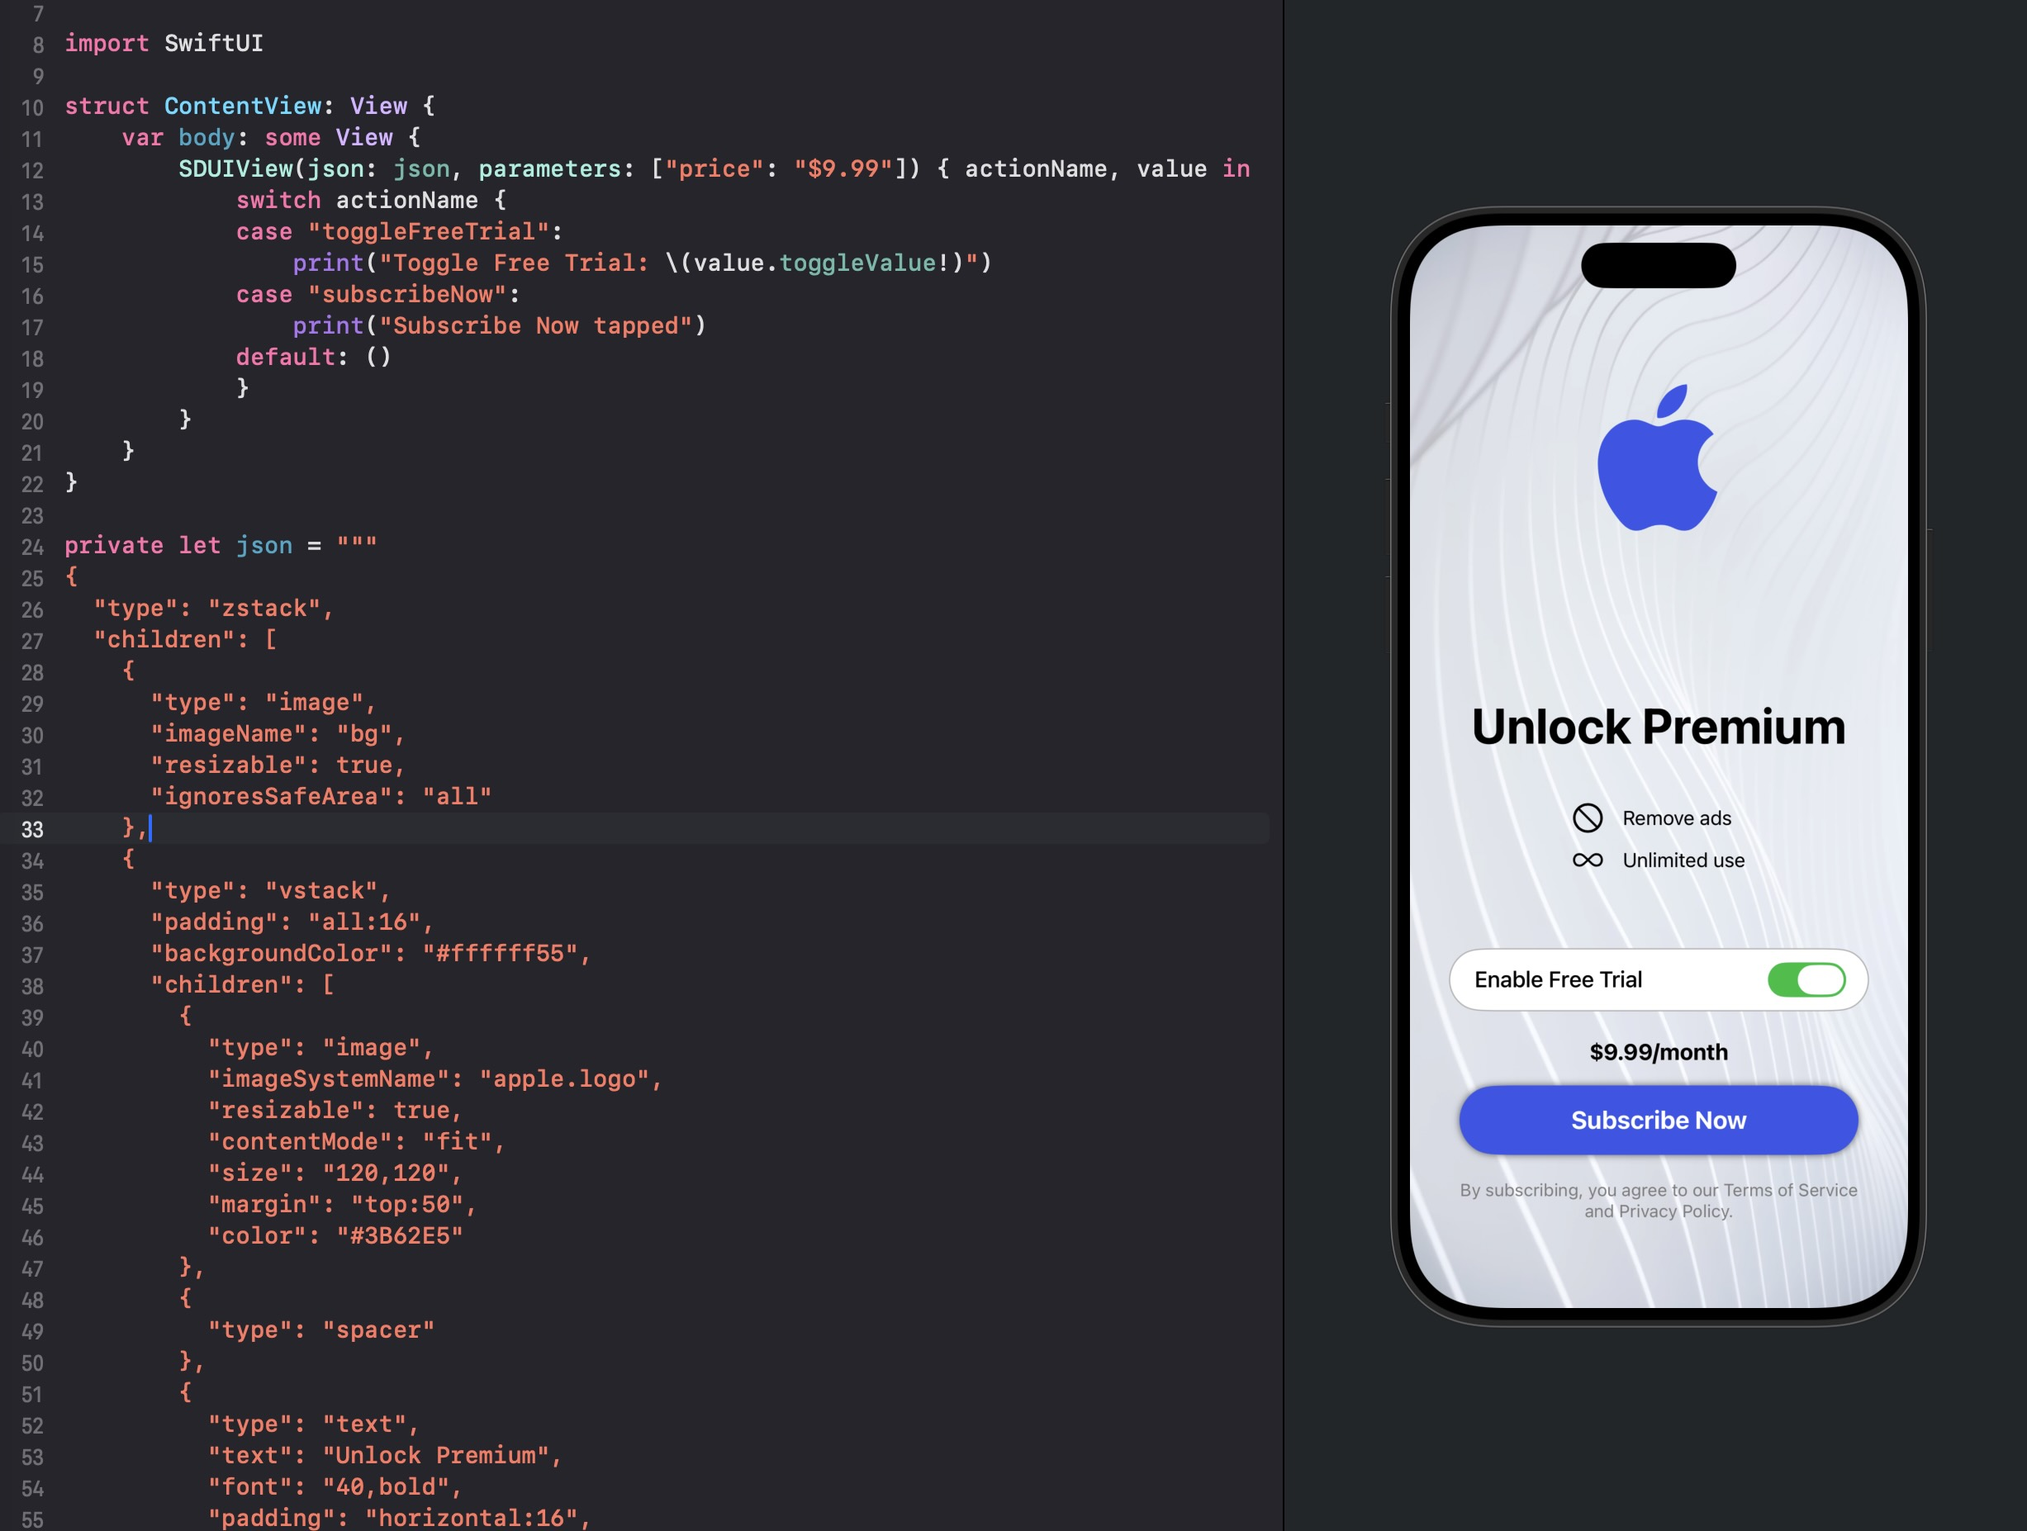
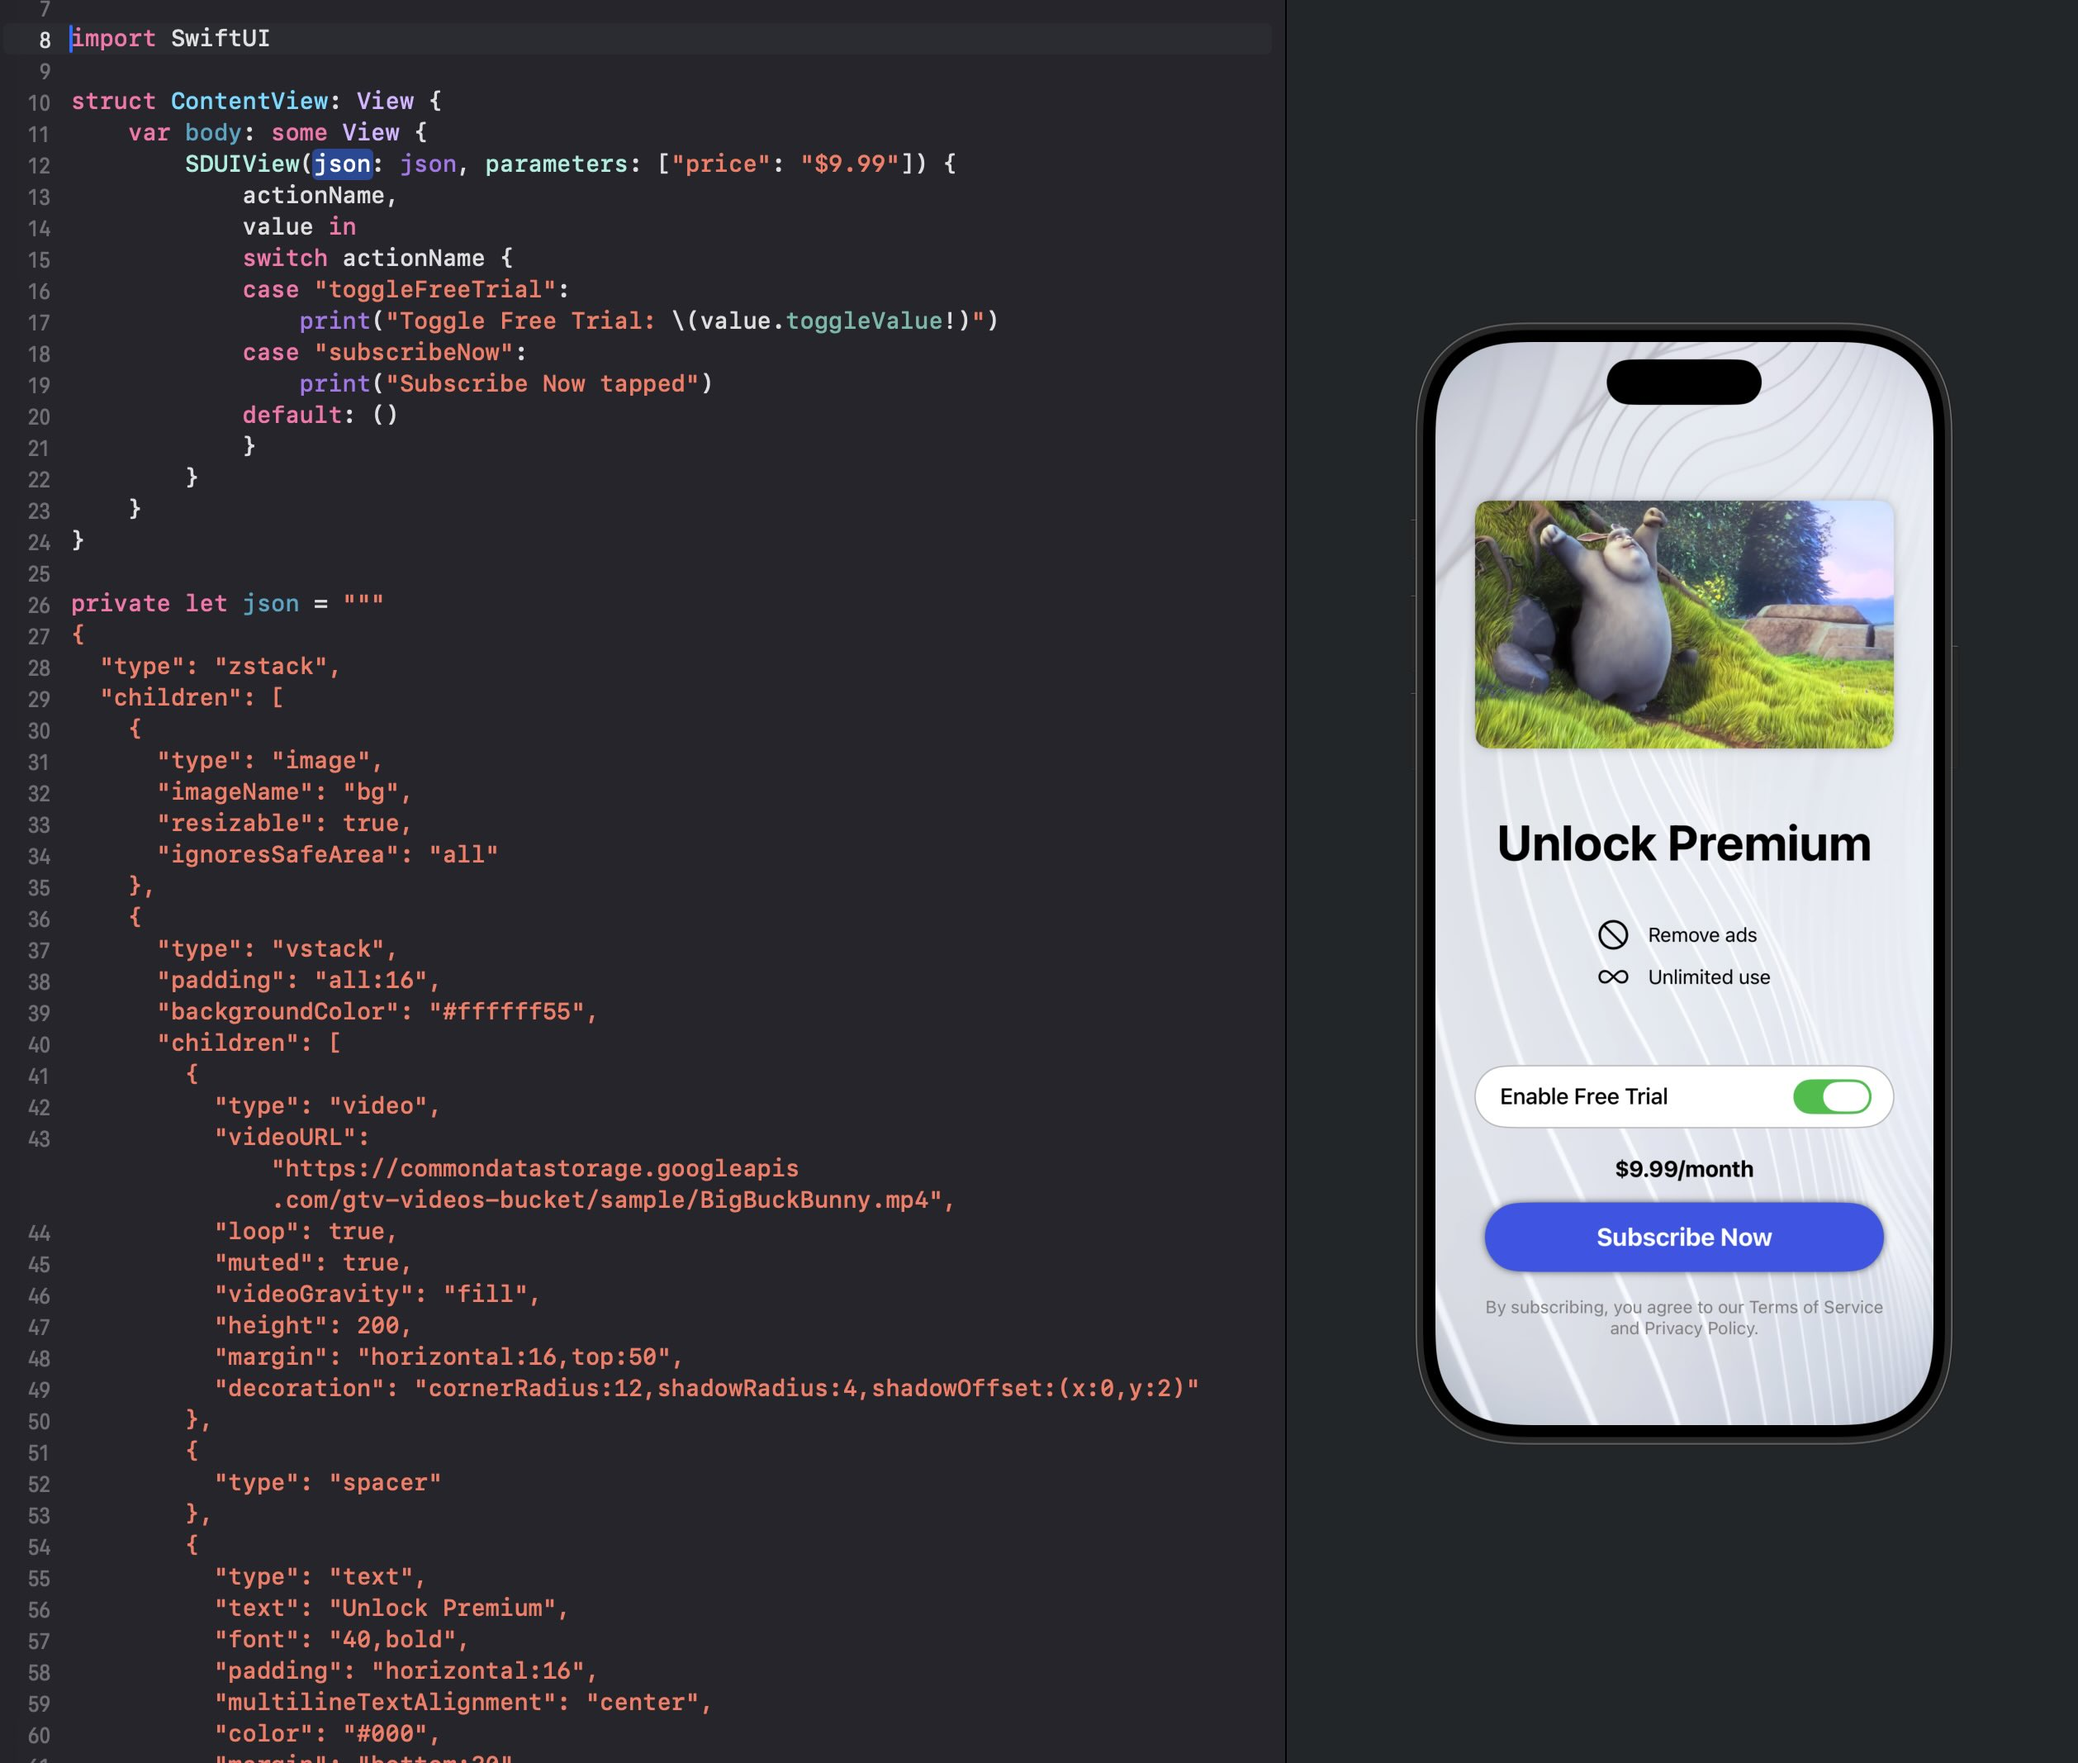
Update example

Changed region(s): [[0.0, 0.0, 0.6194, 1.0], [0.6813, 0.123, 0.9601, 0.8608], [0.0, 0.6764, 0.031, 1.0]]

diff --git a/SwiftSDUI/ExampleView.swift b/SwiftSDUI/ExampleView.swift
@@ -21,7 +21,10 @@ struct ExampleView: View {
                 SDUIView(
                     json: """
                         { "type": "button", "title": "Primary Action", "backgroundColor": "orange", "padding": "vertical:10,horizontal:16", "decoration": "cornerRadius:12,shadowRadius:2,shadowOffset:(x:0,y:1)" }
-                        """
+                        """,
+                    onAction: { name, value in
+                        print("Button action: \(name) -> \(value)")
+                    }
                 )
 
                 SDUIView(
@@ -94,13 +97,34 @@ struct ExampleView: View {
                 SDUIView(
                     json: """
                         { "type": "slider", "min": 0, "max": 100, "value": 30, "step": 5, "action": "#sliderChanged" }
-                        """
+                        """,
+                    onAction: { name, value in
+                        print("Slider action: \(name) -> \(value.sliderValue ?? 0)")
+                    }
                 )
                 
                 SDUIView(
                     json: """
                         { "type": "toggle", "title": "Enable notifications", "isOn": true, "padding": "all:4" }
-                        """
+                        """,
+                    onAction: { name, value in
+                        print("Toggle action: \(name) -> \(value.toggleValue ?? false)")
+                    }
+                )
+                
+                SDUIView(
+                    json: """
+                        { "type": "textfield",
+                          "placeholder": "Enter email",
+                          "text": "",
+                          "submitLabel": "go",
+                          "padding": "all:8",
+                          "decoration": "cornerRadius:12,borderColor:#d1d5db,borderWidth:1"
+                        }
+                        """,
+                    onAction: { name, value in
+                        print("Text action: \(name) -> \(value.textChanged ?? "")")
+                    }
                 )
                 
                 SDUIView(

diff --git a/SwiftSDUI/ContentView.swift b/SwiftSDUI/ContentView.swift
@@ -38,14 +38,15 @@ private let json = """
       "padding": "all:16",
       "backgroundColor": "#ffffff55",
       "children": [
-        {
-          "type": "image",
-          "imageSystemName": "apple.logo",
-          "resizable": true,
-          "contentMode": "fit",
-          "size": "120,120",
-          "margin": "top:50",
-          "color": "#3B62E5"
+        { 
+          "type": "video",
+          "videoURL": "https://commondatastorage.googleapis.com/gtv-videos-bucket/sample/BigBuckBunny.mp4",
+          "loop": true,
+          "muted": true,
+          "videoGravity": "fill",
+          "height": 200,
+          "margin": "horizontal:16,top:50",
+          "decoration": "cornerRadius:12,shadowRadius:4,shadowOffset:(x:0,y:2)"
         },
         {
           "type": "spacer"
